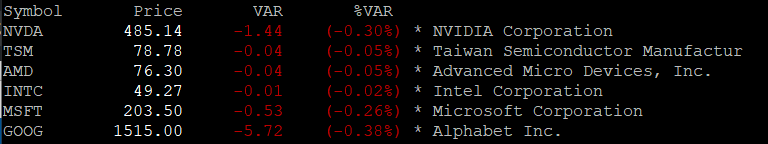
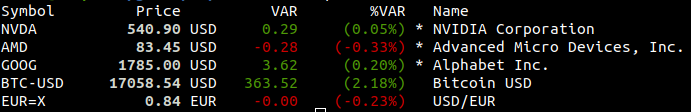
adding name header and fixing readme screenshot

diff --git a/README.md b/README.md
@@ -4,12 +4,12 @@
 
 `ticker.sh` is a simple shell script using the Yahoo Finance API as a data source. It features colored output and is able to display pre- and post-market prices.
 
-![ticker.sh](https://raw.githubusercontent.com/zdecamp/ticker.sh/master/screenshot.png)
+![ticker.sh](https://raw.githubusercontent.com/meekser/ticker.sh/master/screenshot.png)
 
 ## Install
 
 ```sh
-$ curl -o ticker.sh https://raw.githubusercontent.com/OfotViking/ticker.sh/master/ticker.sh
+$ curl -o ticker.sh https://raw.githubusercontent.com/meekser/ticker.sh/master/ticker.sh
 ```
 
 Make sure to install [jq](https://stedolan.github.io/jq/), a versatile command-line JSON processor.
@@ -20,8 +20,8 @@ Make sure to install [jq](https://stedolan.github.io/jq/), a versatile command-l
 # Single symbol:
 $ ./ticker.sh AAPL
 
-# Multiple symbols:
-$ ./ticker.sh AAPL MSFT GOOG BTC-USD
+# Multiple symbols (as per finance.yahoo.com):
+$ ./ticker.sh AAPL MSFT GOOG BTC-USD EUR=X
 
 # Create default example .conf file:
 # Default location ~/.config/ticker.conf
